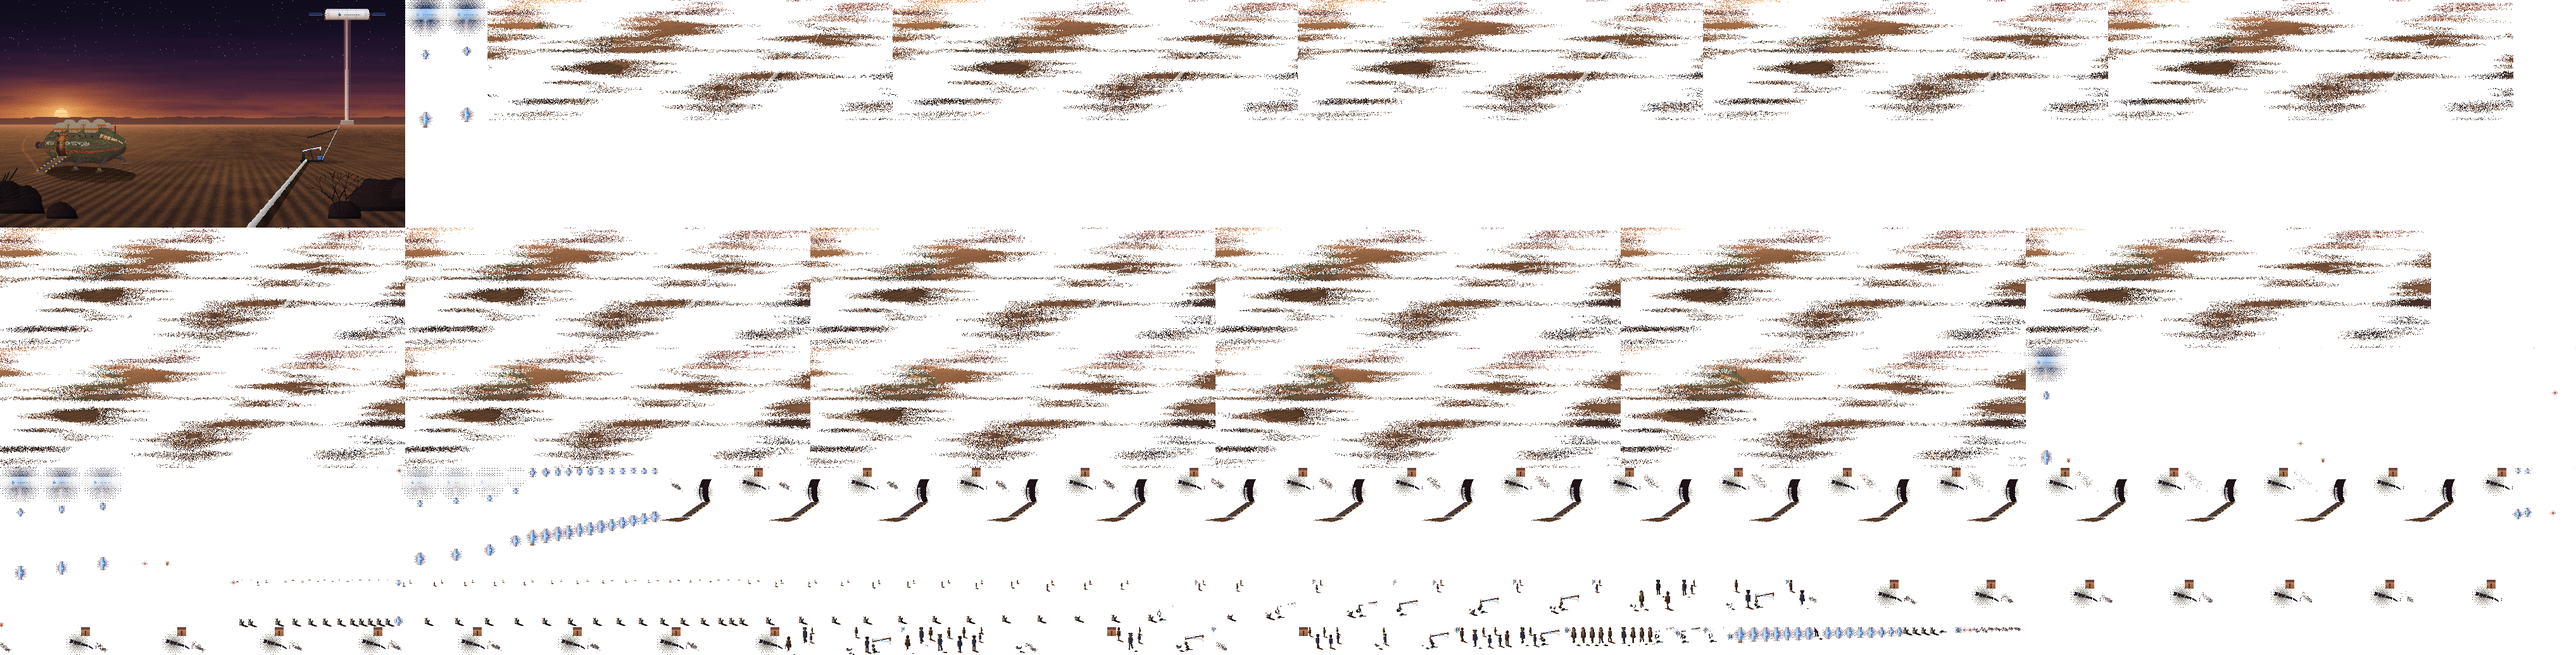
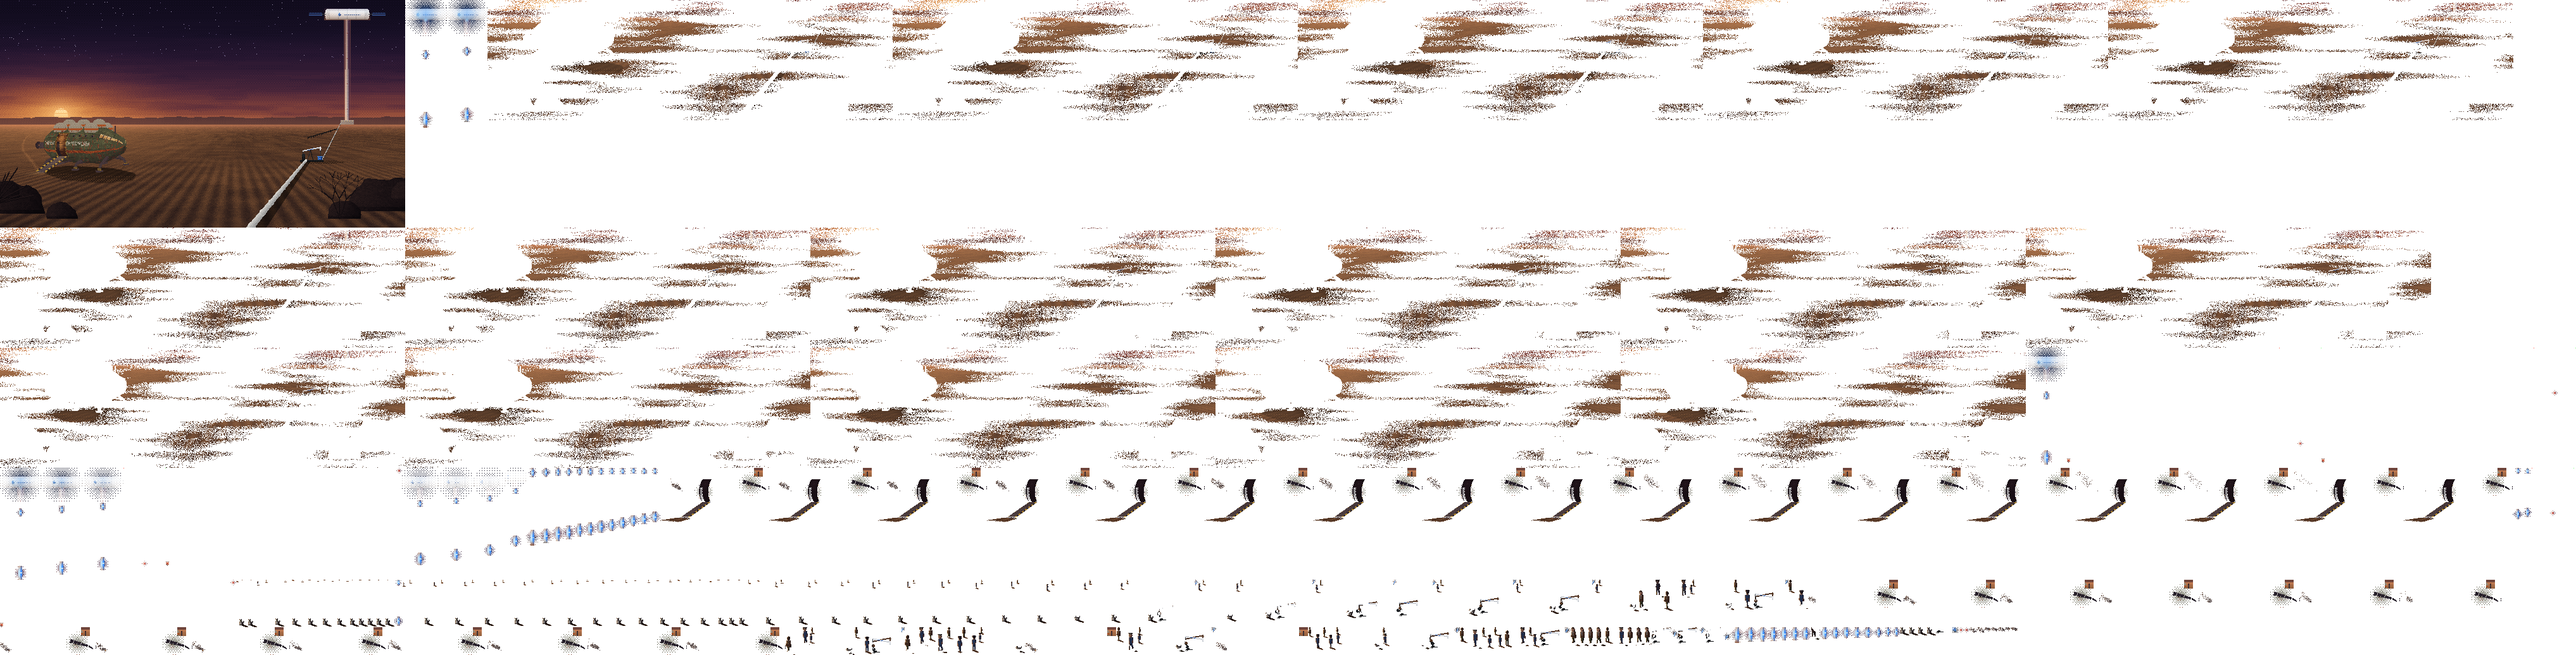
Aigua Verne: la nau ja no queda de trama en començar
La capa de la pols que passa arran de terra es pintava també damunt de la nau, la canonada i el primer pla. A la
portada ho tapava el títol (que repinta la nau); en esvair-se, i al pròleg, la nau semblava mig transparent. Ara la
pols no es pinta sobre el que té davant. Tasca 027.

diff --git a/games/aigua-verne/adapters/benne/tools/hd640/rooms/portada.py b/games/aigua-verne/adapters/benne/tools/hd640/rooms/portada.py
@@ -609,10 +609,29 @@ def _frames(key, n):
         cv = Canvas(light=LIGHT, img=base_img().copy())
         if key == 'pols':
             dust(cv, f)
+            _sense_pols_davant(cv.img)
         else:
             tower_lights(cv, f)
         out.append(diff(cv.img))
     return out
+
+
+# El que és davant de la pols (la nau, la canonada, el primer pla): la pols no s'hi pinta a sobre. Si no, la capa de la
+# pols deixa la nau «de trama», com transparent (a la portada no es veia perquè la tapava el títol).
+DAVANT_POLS = {'nau', 'cabina_finestres', 'porta', 'rampa', 'canonada', 'primer_pla'}
+
+
+def _sense_pols_davant(img):
+    e = base_escena()
+    base = base_img().load()
+    P = img.load()
+    idx = {i for i, sid in enumerate(e.ids) if sid in DAVANT_POLS}
+    W_, H_ = e.cv.w, e.cv.h
+    for Y in range(H_):
+        row = Y * W_
+        for X in range(W_):
+            if e.amo[row + X] in idx:
+                P[X, Y] = base[X, Y]
 
 
 def _title_frames(n=8):
